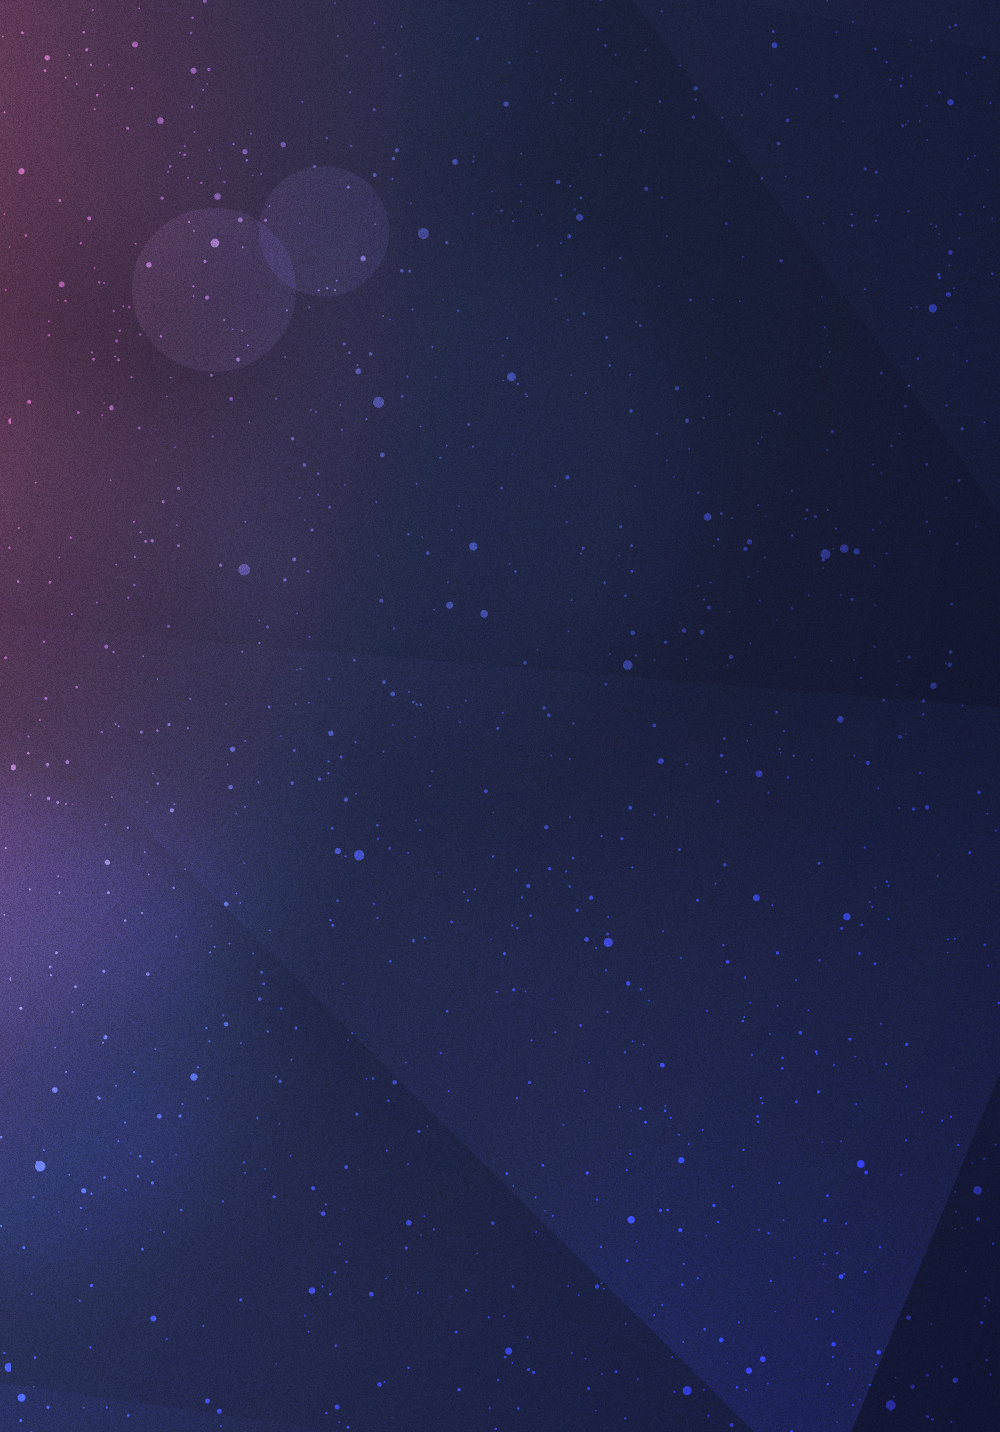
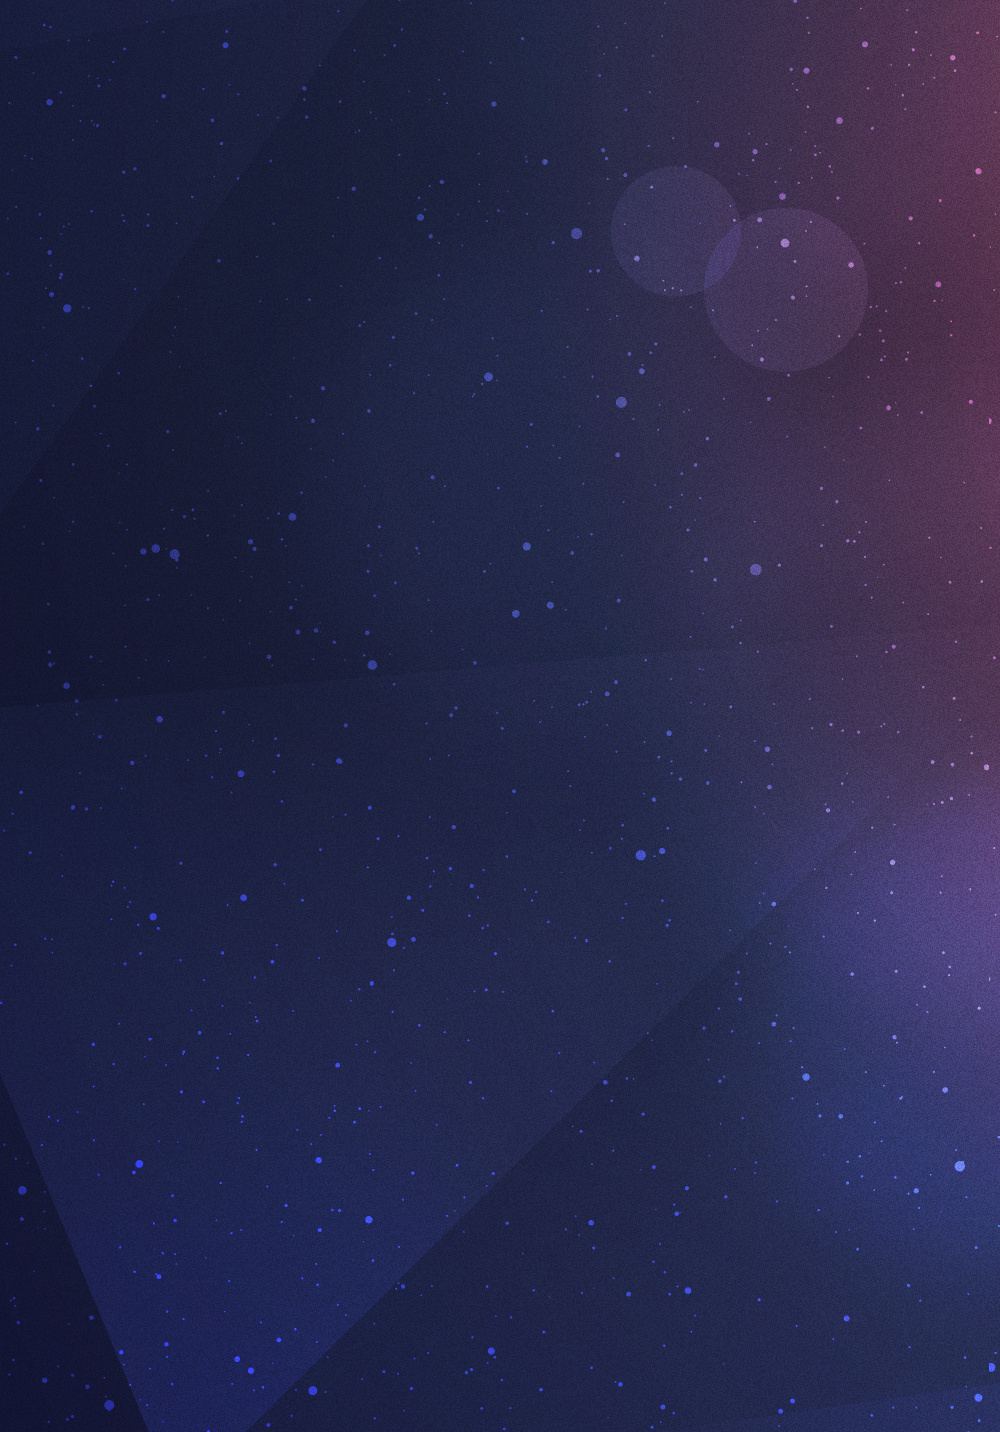
small readme changes

diff --git a/chrome/css.css b/chrome/css.css
@@ -3,7 +3,7 @@ html {
 }
 
 body {
-	background: #fff url('img/background2.jpg') top left fixed;
+	background: #000 url('img/background.jpg') top left fixed;
     min-height:400px;
     margin: 0;
     padding: none;
@@ -17,7 +17,7 @@ body {
 #can {
     margin: 0;
     position:fixed; top:0;left:0;
-    background-image: url('img/background2.jpg') top left fixed;
+    background-image: url('img/background.jpg') top left fixed;
     z-index: -1;
 }
 

diff --git a/README.md b/README.md
@@ -23,12 +23,6 @@ This software is currently ***alpha***.
 Artistic License 2.0, a [supervillain-friendly](http://i.imgur.com/1xV099o.jpg) license.
 
 ###Thanks
-**Music**
-* *Black Marble*'s "A Different Arrangement"
-* *She Wants Revenge* discography
-* *Lincoln County Historical Society* "Die Bastards"
-* *St. Vincent* "Actors" & "St. Vincent"
-* *Thomas Azier* "Hylas 002"
 
 **People**<br>
 Many thanks to all of the people who gave feedback, particularly David Fifield, who found several annoying issues with an early version. (And who has seriously *legit* musical taste).
@@ -36,6 +30,14 @@ Many thanks to all of the people who gave feedback, particularly David Fifield, 
 And as always, thanks to those who *must* remain anonymous, for taking the time to test against filters and give usability feedback. :love_letter:
 
 Also thanks to Redacted, for answering my question about SHA256sum checking at LibrePlanet. Truly, your help has been redacted redacted.  Redacted!
+
+**Music**
+* *Black Marble* "A Different Arrangement"
+* *She Wants Revenge* discography
+* *Lincoln County Historical Society* "Die Bastards"
+* *St. Vincent* "Actors" & "St. Vincent"
+* *Thomas Azier* "Hylas 002" & "Verwandlung" EPs
+* *Au Revoir Simone* "Still Night, Still Light"
 
 **Credits**
     <!-- Not sure if going to use this <p>Bubble heart icon by <a href="http://ciaracable.com">Ciara Cable</a>, used with permission.</p> -->
